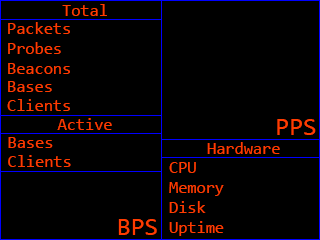
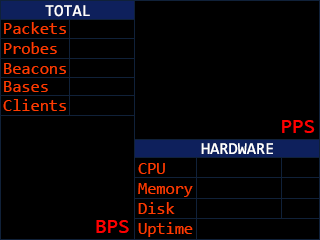
updated backgrounds

Changed region(s): [[0.0, 0.0, 1.0, 1.0]]

diff --git a/livestats.py b/livestats.py
@@ -1,4 +1,6 @@
 import pygame as pg
+import psutil
+import math
 from settings import *
 
 class LiveStats(pg.sprite.Sprite):
@@ -11,17 +13,44 @@ class LiveStats(pg.sprite.Sprite):
         self._layer = 1
         pg.sprite.Sprite.__init__(self, self.groups)
         self.images = []
-        self.images.append(pg.image.load('images/livestats_black.png').convert())
+        self.images.append(pg.image.load('images/livestats_blue_camo.png').convert())
         self.images.append(pg.image.load('images/livestats_white.png').convert())
         self.image = self.images[0]
         self.rect = self.image.get_rect()
         self.rect.centery = Height / 2
         self.rect.centerx = Width / 2
         self.font_size = 20
+
         self.text_color = (255,255,255)
         self.font = pg.font.SysFont('Consolas', self.font_size)
         self.font_image = self.font.render('', False, self.text_color)
         self.rect = self.image.get_rect()
+
+        #CPU INIT
+        self.cpu_text = self.font.render(str(psutil.cpu_percent()), False, self.text_color)
+        self.cpu_rect = self.cpu_text.get_rect()
+        self.cpu_bar = pg.Surface((100,20))
+        self.cpu_bar.fill((0,255,255))
+        self.cpu_bar_rect = self.cpu_bar.get_rect()
+        self.cpu_bar_rect.y = 161
+        self.cpu_bar_rect.right = Width*2
+
+        self.mem_text = self.font.render(str(psutil.virtual_memory()[2]), False, self.text_color)
+        self.mem_rect = self.mem_text.get_rect()
+        self.mem_bar = pg.Surface((100,20))
+        self.mem_bar.fill((0,255,255))
+        self.mem_bar_rect = self.cpu_bar.get_rect()
+        self.mem_bar_rect.y = 181
+        self.mem_bar_rect.right = Width*2
+
+        self.disk_text = self.font.render(str(psutil.disk_usage('/')[3]), False, self.text_color)
+        self.disk_rect = self.disk_text.get_rect()
+        self.disk_bar = pg.Surface((100,20))
+        self.disk_bar.fill((0,255,255))
+        self.disk_bar_rect = self.cpu_bar.get_rect()
+        self.disk_bar_rect.y = 201
+        self.disk_bar_rect.right = Width*2
+
 
     def draw(self):
         self.game.screen.blit(self.image, (0, 0))
@@ -33,10 +62,65 @@ class LiveStats(pg.sprite.Sprite):
         self.game.screen.blit(total_packets_text, (total_packets_rect.left + 90, 23))
 
         #Total Packets per Second
-        self.update_font_size(120)
+        self.update_font_size(140)
         total_packets_per_second_text = self.font.render(str(self.game.datarecorder.total_packets_per_second), False, self.text_color)
         total_packets_per_second_rect = total_packets_per_second_text.get_rect()
-        self.game.screen.blit(total_packets_per_second_text, (total_packets_per_second_rect.left + 195, 23))
+        total_packets_per_second_rect.right = Width - 35
+        total_packets_per_second_rect.y = 26
+        self.game.screen.blit(total_packets_per_second_text, total_packets_per_second_rect)
+
+
+        #Collects stats once per second, otherwise it fucks up
+        if self.game.frameCounter == 1:
+
+            #CPU Number
+            self.update_font_size(20)
+            cpu_usage = psutil.cpu_percent()
+            self.cpu_text = self.font.render(str(cpu_usage), False, self.text_color)
+            self.cpu_rect = self.cpu_text.get_rect()
+
+            #CPU Bar
+            self.cpu_bar = pg.Surface((100,20))
+            self.cpu_bar.fill((128,0,0))
+            self.cpu_bar = pg.transform.scale(self.cpu_bar, (int(str(math.ceil(cpu_usage)*0.7).split('.')[0]), 13))
+            self.cpu_bar_rect = self.cpu_bar.get_rect()
+            self.cpu_bar_rect.y = 161
+            self.cpu_bar_rect.right = Width - 40
+
+            #Memory
+            mem_usage = psutil.virtual_memory()[2]
+            self.mem_text = self.font.render(str(mem_usage), False, self.text_color)
+            self.mem_rect = self.mem_text.get_rect()
+
+            #Memory Bar
+            self.mem_bar = pg.Surface((100,20))
+            self.mem_bar.fill((0,128,0))
+            self.mem_bar = pg.transform.scale(self.mem_bar, (int(str(math.ceil(mem_usage)*0.7).split('.')[0]), 13))
+            self.mem_bar_rect = self.mem_bar.get_rect()
+            self.mem_bar_rect.y = 181
+            self.mem_bar_rect.right = Width - 40
+
+            #DISK
+            disk_usage = psutil.disk_usage('/')[3]
+            self.disk_text = self.font.render(str(disk_usage), False, self.text_color)
+            self.disk_rect = self.disk_text.get_rect()
+
+            #DISK Bar
+            self.disk_bar = pg.Surface((100,20))
+            self.disk_bar.fill((0,0,128))
+            self.disk_bar = pg.transform.scale(self.disk_bar, (int(str(math.ceil(disk_usage)*0.7).split('.')[0]), 13))
+            self.disk_bar_rect = self.disk_bar.get_rect()
+            self.disk_bar_rect.y = 201
+            self.disk_bar_rect.right = Width - 40
+
+        self.game.screen.blit(self.cpu_bar, self.cpu_bar_rect)
+        self.game.screen.blit(self.mem_bar, self.mem_bar_rect)
+        self.game.screen.blit(self.disk_bar, self.disk_bar_rect)
+        self.game.screen.blit(self.cpu_text, (self.cpu_rect.left + 290, 163))
+        self.game.screen.blit(self.mem_text, (self.mem_rect.left + 290, 183))
+        self.game.screen.blit(self.disk_text, (self.disk_rect.left + 290, 203))
+
+
 
     def update_font_size(self, FontSize):
         self.font = pg.font.SysFont('Consolas', FontSize)
